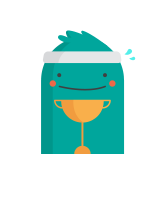
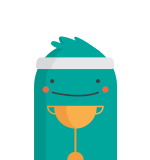
Update welcome screen badge

diff --git a/includes/admin/class-sp-admin-welcome.php b/includes/admin/class-sp-admin-welcome.php
@@ -75,18 +75,23 @@ class SP_Admin_Welcome {
 		?>
 		<style type="text/css">
 			/*<![CDATA[*/
+			.about-sportspress-wrap .sp-about-text {
+				min-height: 0;
+			}
 			.about-sportspress-wrap .sp-badge {
 				position: absolute;
 				top: 0;
 				right: 0;
 				background: #00cac4 url(<?php echo $badge_url; ?>) no-repeat center top;
 				text-rendering: optimizeLegibility;
-				padding-top: 160px;
-				height: 42px;
-				width: 165px;
+				padding-top: 10px;
+				height: 150px;
+				width: 150px;
 				font-size: 14px;
+				line-height: 1.75;
 				text-align: center;
-				color: #e6e7e8;
+				font-weight: 600;
+				color: #c4fffc;
 				margin: 5px 0 0 0;
 				-webkit-box-shadow: 0 1px 3px rgba(0,0,0,.2);
 				box-shadow: 0 1px 3px rgba(0,0,0,.2);
